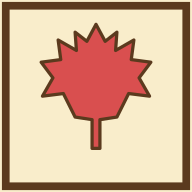
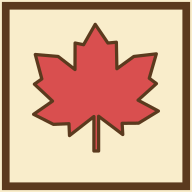
Maple leaf redrawn from real leaf photo

Changed region(s): [[0.1562, 0.125, 0.8438, 0.8125]]

diff --git a/quest.js b/quest.js
@@ -1329,9 +1329,11 @@ function saveSettings() {
   catch (e) { /* ignore */ }
 }
 var LEAF_COLORS = ['#d94f4f', '#e2543e', '#e8862e', '#f09a3e', '#f2c230', '#c93b3b'];
-var LEAF_PATH = 'M50 1 L57 14 L66 7 L65 21 L79 13 L77 28 L92 30 L83 42 ' +
-  'L91 56 L75 54 L66 72 L53 74 L53 96 L47 96 L47 74 L34 72 L25 54 L9 56 ' +
-  'L17 42 L8 30 L23 28 L21 13 L35 21 L34 7 L43 14 Z';
+var LEAF_PATH = 'M49.4 1 L40.5 16.6 L34 15.3 L33.9 35.6 L21 25.6 L3.5 24.1 ' +
+  'L8.5 42.8 L2.8 46.8 L16.7 59.8 L2.2 69.9 L17.4 77.6 L29.3 77.1 L29.7 86.2 ' +
+  'L48.4 71.6 L48.4 98 L52 98 L52 71.4 L70.5 85.4 L70 76.8 L82.6 76.7 ' +
+  'L97.8 67.4 L82.2 59.1 L96.3 46.4 L90.8 42.3 L96.2 23.6 L79 25.6 L66 35 ' +
+  'L65.6 14.7 L59.1 15.3 Z';
 function leafSvg(color, size) {
   return '<svg viewBox="0 0 100 100" width="' + size + '" height="' + size +
     '" aria-hidden="true"><path d="' + LEAF_PATH + '" fill="' + color + '"/></svg>';
